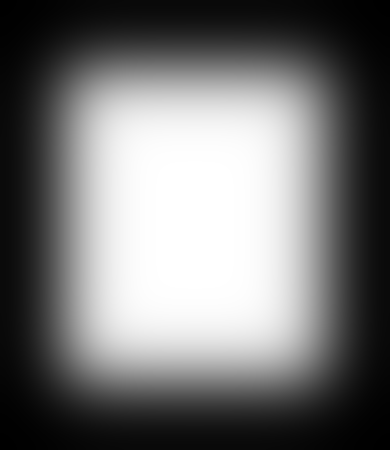
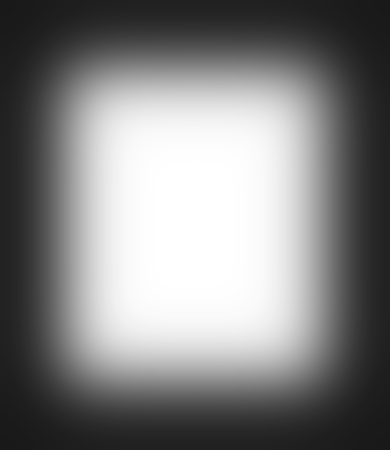
Visual improvements

diff --git a/style.css b/style.css
@@ -46,7 +46,7 @@ body {
 }
 
 .button,
-.button label {
+.button > * {
   cursor: pointer;
 }
 
@@ -147,6 +147,7 @@ input:focus-visible {
   -webkit-backdrop-filter: blur(5px);
   backdrop-filter: blur(5px);
   border-radius: 1em;
+  border: 1px solid var(--tran-bg-color);
 }
 
 #fileName {
@@ -254,6 +255,7 @@ input:focus-visible {
   position: fixed;
   top: 0;
   width: 100%;
+  height: 6em;
   padding: 2em;
 }
 
@@ -264,12 +266,12 @@ input:focus-visible {
   display: flex;
   -webkit-box-pack: center;
   -webkit-justify-content: center;
-      -ms-flex-pack: center;
-          justify-content: center;
+  -ms-flex-pack: center;
+  justify-content: center;
   -webkit-box-align: center;
   -webkit-align-items: center;
-      -ms-flex-align: center;
-          align-items: center;
+  -ms-flex-align: center;
+  align-items: center;
   height: 2em;
 }
 
@@ -302,9 +304,9 @@ input:focus-visible {
   display: flex;
   width: 100%;
   -webkit-box-pack: end;
-  -webkit-justify-content: end;
-      -ms-flex-pack: end;
-          justify-content: end;
+  -webkit-justify-content: flex-end;
+  -ms-flex-pack: end;
+  justify-content: flex-end;
   gap: .5em;
 }
 
@@ -330,6 +332,12 @@ input:focus-visible {
   color: white;
 }
 
+#closeFaq {
+  -webkit-flex-shrink: 0;
+  -ms-flex-negative: 0;
+  flex-shrink: 0;
+}
+
 #devices {
   display: -webkit-box;
   display: -webkit-flex;
@@ -350,21 +358,16 @@ input:focus-visible {
 }
 
 #devices .brand {
-  display: -webkit-box;
-  display: -webkit-flex;
-  display: -ms-flexbox;
-  display: flex;
-  -webkit-box-orient: vertical;
-  -webkit-box-direction: normal;
-  -webkit-flex-direction: column;
-  -ms-flex-direction: column;
-  flex-direction: column;
-  gap: .5em;
   background: var(--tran-bg-color);
   border-radius: 1em;
   -webkit-backdrop-filter: blur(3px);
   backdrop-filter: blur(3px);
   cursor: default;
+  height: auto;
+  -webkit-transition: height 1s ease;
+  -o-transition: height 1s ease;
+  transition: height 1s ease;
+  overflow: hidden;
 }
 
 #devices .brand .title {
@@ -402,33 +405,58 @@ input:focus-visible {
 }
 
 #devices .device {
-  display: none;
-  -webkit-box-pack: center;
-  -webkit-justify-content: center;
-  -ms-flex-pack: center;
-  justify-content: center;
+  display: -webkit-box;
+  display: -webkit-flex;
+  display: -ms-flexbox;
+  display: flex;
+  gap: .5em;
   -webkit-box-align: center;
   -webkit-align-items: center;
   -ms-flex-align: center;
   align-items: center;
-  height: 2em;
-  padding: 0 .5em;
+  height: 0;
+  padding: 0;
   background-color: transparent;
   -webkit-transition: all .2s;
   -o-transition: all .2s;
   transition: all .2s;
   -webkit-box-sizing: border-box;
   box-sizing: border-box;
+  opacity: 0;
+  pointer-events: none;
+}
+#devices .display {
+  height: 1em;
+  background: var(--tran-bg-color);
+  border: 1px solid var(--tran-bg-color);
+}
+.display.round {
+  width: 1em;
+  border-radius: .5em;
+}
+.display.square {
+  width: .8em;
+  margin: 0 .1em;
+  border-radius: .2em;
+}
+.display.band {
+  width: .5em;
+  margin: 0 .25em;
+  border-radius: .25em;
 }
 
 #devices .title.active~.device {
-  display: -webkit-box;
-  display: -webkit-flex;
-  display: -ms-flexbox;
-  display: flex;
+  height: 2em;
+  padding: 0 .5em;
+  opacity: 1;
+  pointer-events: unset;
 }
 
-#devices .device:last-child {
+#devices .title.active~:not(:first-child) {
+  margin-top: .5em;
+}
+
+#devices .title.active~.device:last-child {
   border-radius: 0 0 .5em .5em;
   margin-bottom: .5em;
 }
@@ -457,12 +485,12 @@ input:focus-visible {
   display: flex;
   -webkit-box-pack: center;
   -webkit-justify-content: center;
-      -ms-flex-pack: center;
-          justify-content: center;
+  -ms-flex-pack: center;
+  justify-content: center;
   -webkit-box-align: center;
   -webkit-align-items: center;
-      -ms-flex-align: center;
-          align-items: center;
+  -ms-flex-align: center;
+  align-items: center;
 }
 
 #faq .content {
@@ -473,18 +501,36 @@ input:focus-visible {
   -webkit-box-orient: vertical;
   -webkit-box-direction: normal;
   -webkit-flex-direction: column;
-      -ms-flex-direction: column;
-          flex-direction: column;
+  -ms-flex-direction: column;
+  flex-direction: column;
   gap: 1em;
   width: 90%;
   -webkit-box-sizing: border-box;
-          box-sizing: border-box;
+  box-sizing: border-box;
   max-width: 500px;
   background: var(--tran-bg-color);
-  -webkit-backdrop-filter: blur(3px);
-          backdrop-filter: blur(3px);
+  -webkit-backdrop-filter: blur(10px);
+  backdrop-filter: blur(10px);
+  -webkit-box-shadow: 0px .5em 1em rgba(0, 0, 0, .5);
+  box-shadow: 0px .5em 1em rgba(0, 0, 0, .5);
   border-radius: 2em;
+  border: 1px solid var(--tran-bg-color);
   padding: min(5dvw, 3em);
+  -webkit-transition: all .5s;
+  -o-transition: all .5s;
+  transition: all .5s;
+  opacity: 1;
+}
+
+#faq.hidden {
+  z-index: -100;
+}
+
+#faq.inactive .content {
+  -webkit-transform: translateY(5em);
+  -ms-transform: translateY(5em);
+  transform: translateY(5em);
+  opacity: 0;
 }
 
 #faq .title {
@@ -495,8 +541,8 @@ input:focus-visible {
   gap: .5em;
   -webkit-box-pack: justify;
   -webkit-justify-content: space-between;
-      -ms-flex-pack: justify;
-          justify-content: space-between;
+  -ms-flex-pack: justify;
+  justify-content: space-between;
 }
 
 #faq .title>*:first-child {

diff --git a/script.js b/script.js
@@ -17,7 +17,7 @@ const images = {
     visibility: false
   },
   glare: {
-    src: './images/glare.png',
+    src: './images/glares/default/glare.png',
     visibility: false
   }
 }
@@ -97,6 +97,7 @@ document.addEventListener('DOMContentLoaded', function () {
       }
       reader.readAsDataURL(file)
     }
+    event.target.value = null
   })
 
   document.getElementById('save').addEventListener('click', () => {
@@ -122,11 +123,12 @@ document.addEventListener('DOMContentLoaded', function () {
 
   document.getElementById('openFaq').addEventListener('click', () => {
     document.querySelector('body').style.overflow = 'hidden'
-    document.getElementById('faq').classList.remove('hide')
+    document.getElementById('faq').classList.remove('hidden', 'inactive')
   })
   document.getElementById('closeFaq').addEventListener('click', () => {
     document.querySelector('body').style.overflow = 'auto'
-    document.getElementById('faq').classList.add('hide')
+    document.getElementById('faq').classList.add('inactive')
+    setTimeout(() => document.getElementById('faq').classList.add('hidden'), 500)
   })
 
   fetch('devices.json')
@@ -147,11 +149,16 @@ document.addEventListener('DOMContentLoaded', function () {
           })
         })
         b.appendChild(brandTitle)
-        for (const [deviceType, device] of Object.entries(brand.deviceList)) {
+        for (const [deviceModel, device] of Object.entries(brand.deviceList)) {
           const d = document.createElement('div')
           d.classList.add('device', 'button')
-          d.setAttribute('data-device', deviceType)
-          d.innerHTML = device.title
+          d.setAttribute('data-device', deviceModel)
+          const display = document.createElement('div')
+          display.classList.add('display', device.preview.type)
+          const title = document.createElement('div')
+          title.innerHTML = device.title
+          d.appendChild(display)
+          d.appendChild(title)
           d.addEventListener('click', () => {
             b.parentNode.querySelectorAll('.device').forEach(t => {
               if (t != d) t.classList.remove('active')
@@ -160,14 +167,15 @@ document.addEventListener('DOMContentLoaded', function () {
             images.bg.src = `./images/bgs/${brandName}/${device.bg}.png`
             Object.assign(images.watchface, device.preview)
             const input = document.getElementById('fileName')
-            input.setAttribute('placeholder', `${deviceType}_preview`)
-            input.setAttribute('data-default', `${deviceType}_preview`)
+            input.setAttribute('placeholder', `${deviceModel}_preview`)
+            input.setAttribute('data-default', `${deviceModel}_preview`)
             if (lastType != device.preview.type) {
               lastType = device.preview.type
               images.watchface.src = `./images/defaults/${lastType}.png`
               images.shadow.src = `./images/shadows/${lastType}.png`
               Object.assign(images.watchface, device.preview)
             }
+            images.glare.src = device.preview?.customGlare ? `./images/glares/${brandName}/${device.bg}.png` : './images/glares/default/glare.png'
             loadImages()
           })
           b.appendChild(d)

diff --git a/index.html b/index.html
@@ -85,7 +85,7 @@
       <div id="devices" class="hide"></div>
     </div>
   </div>
-  <div id="faq" class="hide">
+  <div id="faq" class="hidden inactive">
     <div class="content">
       <div class="title">
         <div>Как пользоваться</div>
